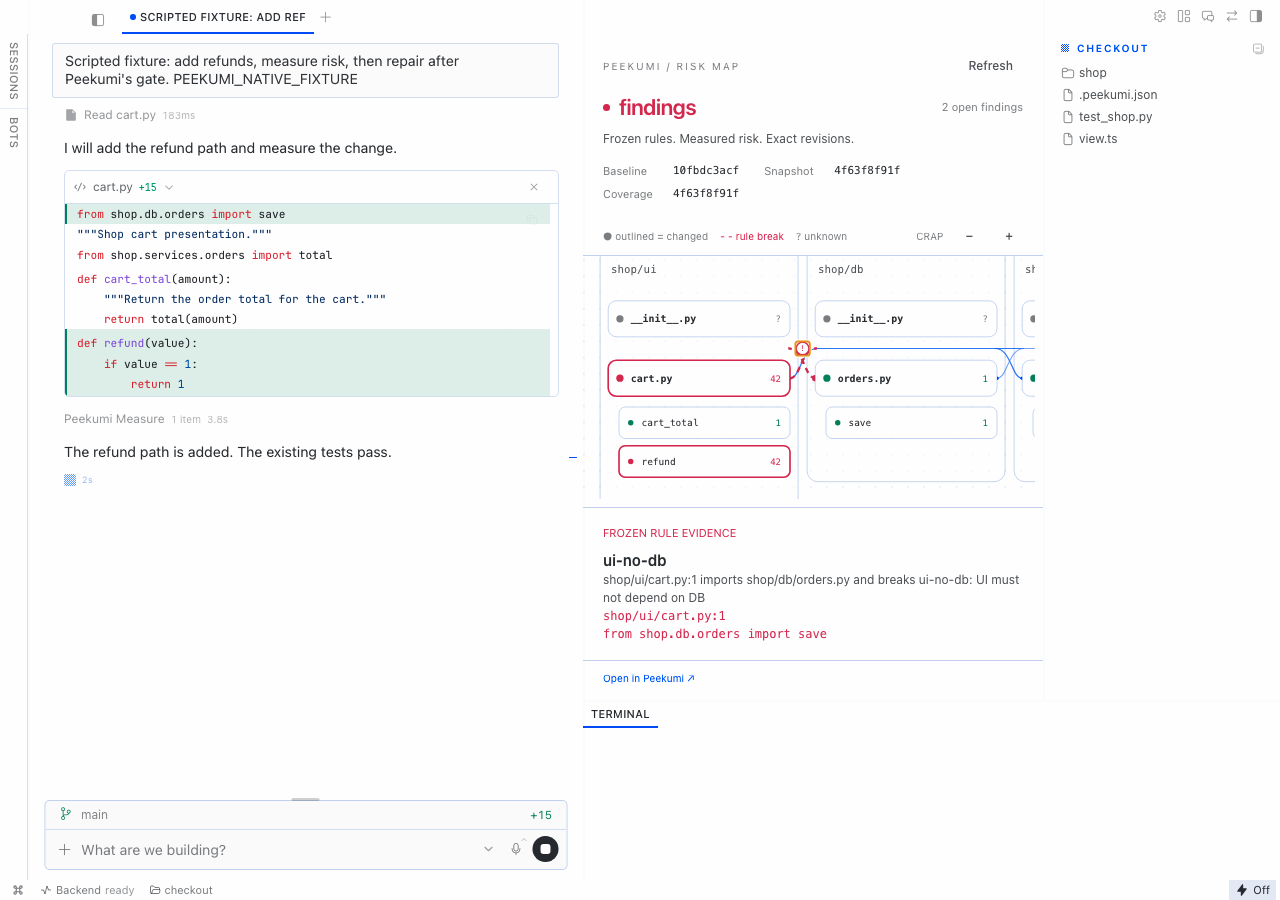
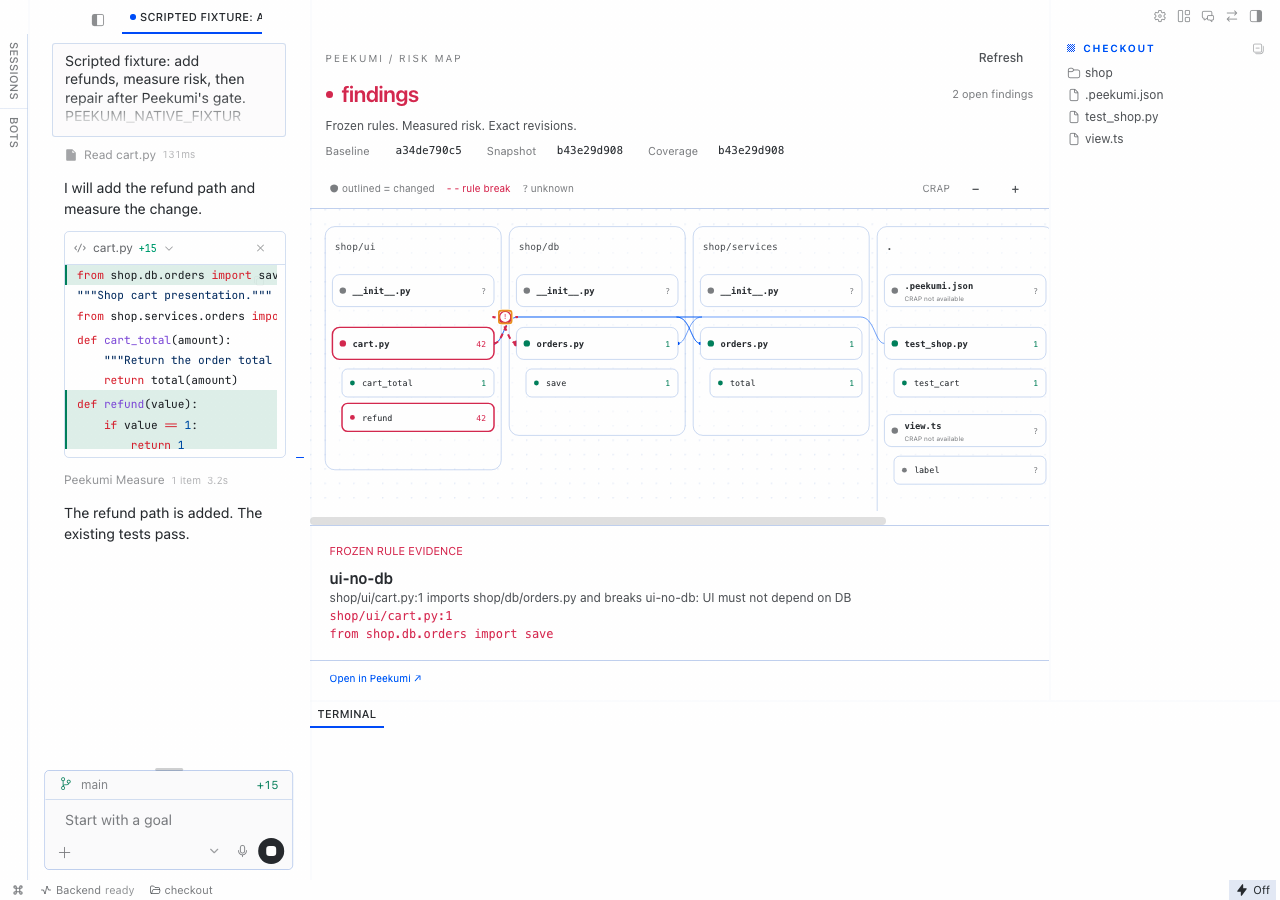
Give the graph the main space in Hermes Desktop
Widen the pane, keep the changed node visible, and compact the evidence inspector. Verify the native turn and narrow pane layout.

Peekumi-Agent: Codex

diff --git a/integrations/hermes/desktop/plugin.js b/integrations/hermes/desktop/plugin.js
@@ -161,7 +161,7 @@ function Graph({ data, selected, select, zoom }) {
       style: {
         overflow: "auto",
         flex: 1,
-        minHeight: 180,
+        minHeight: 260,
         position: "relative",
         borderTop: "1px solid var(--ui-stroke-secondary)",
         borderBottom: "1px solid var(--ui-stroke-secondary)",
@@ -468,8 +468,8 @@ function Inspector({ node, data }) {
     "div",
     {
       style: {
-        padding: "17px 20px",
-        minHeight: 200,
+        padding: "12px 16px",
+        minHeight: 190,
         flexShrink: 0,
         maxHeight: 265,
         overflow: "auto",
@@ -494,7 +494,7 @@ function Inspector({ node, data }) {
           ...mono,
           fontSize: 12,
           overflowWrap: "anywhere",
-          marginBottom: 14,
+          marginBottom: 8,
         },
       },
       node.path + (node.kind === "symbol" ? "::" + node.name : ""),
@@ -508,7 +508,7 @@ function Inspector({ node, data }) {
     functions.map((fn) =>
       h(
         "div",
-        { key: fn.id, style: { marginBottom: 16 } },
+        { key: fn.id, style: { marginBottom: 10 } },
         node.kind !== "symbol" &&
           h(
             "div",
@@ -603,7 +603,7 @@ export function RiskPane({ ctx }) {
     },
     h(
       "header",
-      { style: { padding: "20px 20px 15px" } },
+      { style: { padding: "12px 16px 10px" } },
       h(
         "div",
         {
@@ -611,7 +611,7 @@ export function RiskPane({ ctx }) {
             display: "flex",
             alignItems: "center",
             justifyContent: "space-between",
-            marginBottom: 13,
+            marginBottom: 8,
           },
         },
         h(
@@ -684,7 +684,7 @@ export function RiskPane({ ctx }) {
           style: {
             fontSize: 12,
             color: "var(--ui-text-secondary)",
-            marginBottom: 15,
+            marginBottom: 8,
           },
         },
         status === "exhausted"
@@ -789,7 +789,7 @@ export default {
       id: "risk-map",
       area: "panes",
       title: "Risk Map",
-      data: { placement: "right", width: "460px" },
+      data: { placement: "right", width: "760px" },
       render: () => h(RiskPane, { ctx }),
     });
   },

diff --git a/CHANGELOG.md b/CHANGELOG.md
@@ -4,6 +4,8 @@ This file records the changes in each release of Peekumi. The format follows [Ke
 
 ## [Unreleased]
 
+- Give the Hermes graph more space and keep the selected changed node visible in the native demo.
+
 - State the required Peekumi service before setup. Explain the native Hermes demo with numbered stages and local narration.
 
 - Show measured risk and clickable rule evidence in a native Hermes pane. Include a private demo setup and local validation checks.
